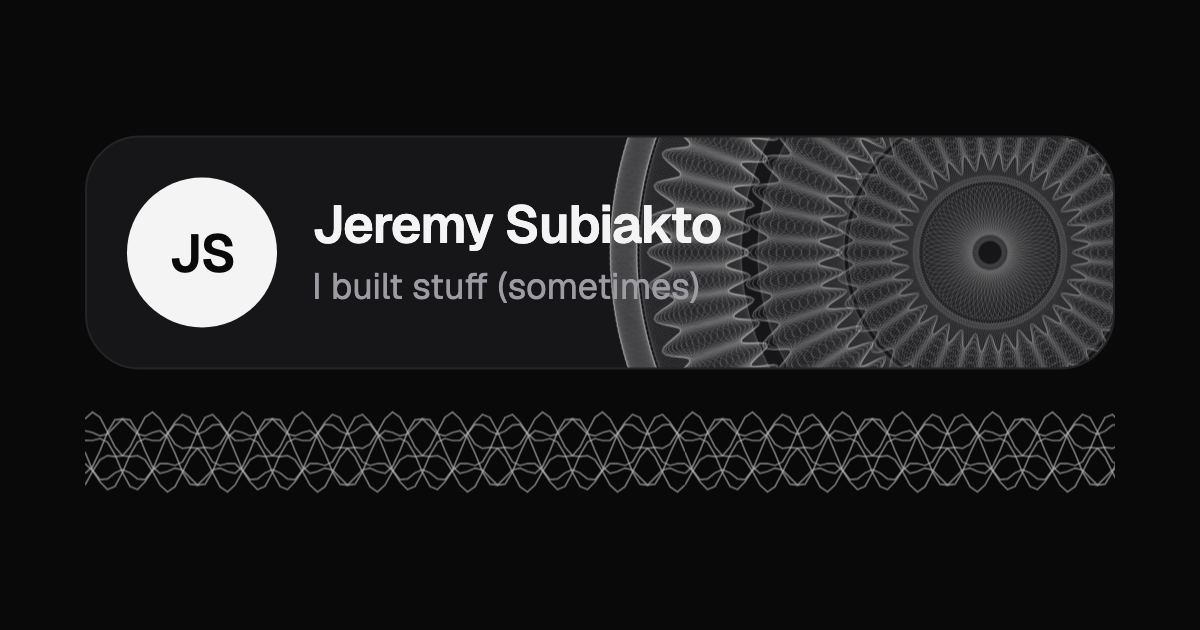
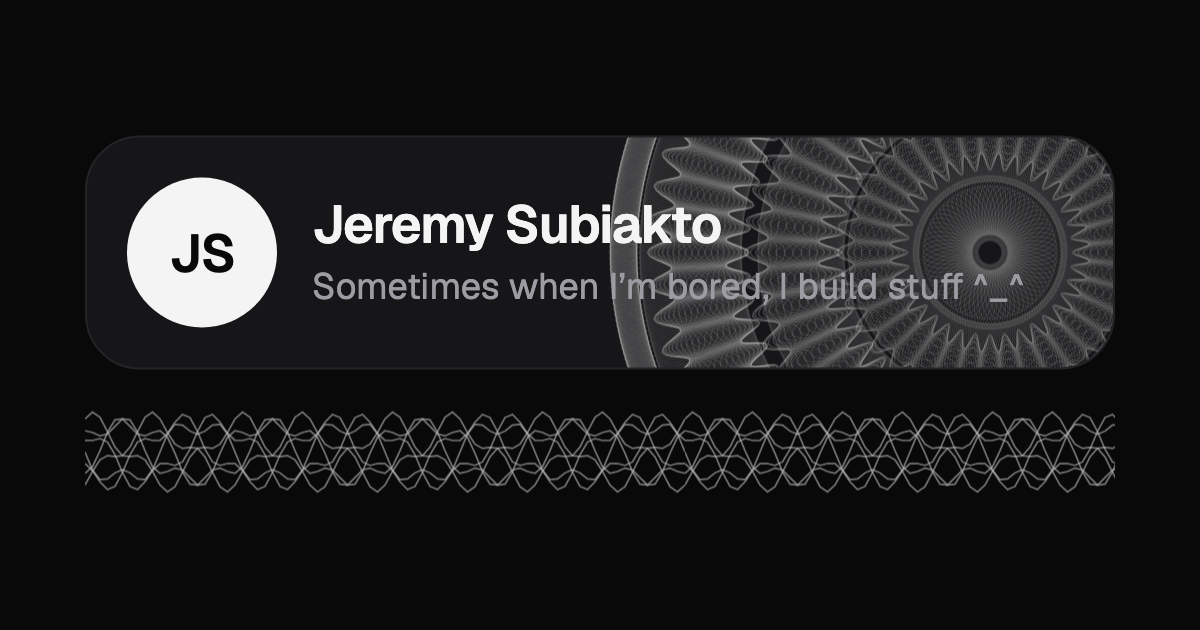
Change the line under the name
It now reads "Sometimes when I'm bored, I build stuff ^_^" on the page,
in the search and share descriptions, on the share picture and in the
hidden print.

Changed region(s): [[0.2467, 0.4222, 0.8633, 0.4825]]

diff --git a/index.html b/index.html
@@ -4,7 +4,7 @@
 <meta charset="utf-8">
 <meta name="viewport" content="width=device-width, initial-scale=1, viewport-fit=cover">
 <title>Jeremy Subiakto</title>
-<meta name="description" content="I built stuff (sometimes). Kenari Collection SQL Lab and Kenari Excel Lab, both free.">
+<meta name="description" content="Sometimes when I’m bored, I build stuff ^_^ Kenari Collection SQL Lab and Kenari Excel Lab, both free.">
 <meta name="color-scheme" content="light dark">
 <meta name="theme-color" media="(prefers-color-scheme: light)" content="#F0F0EC">
 <meta name="theme-color" media="(prefers-color-scheme: dark)" content="#09090A">
@@ -23,14 +23,14 @@
 </script>
 <link rel="canonical" href="https://jeremysubiakto.github.io/links/">
 <meta property="og:title" content="Jeremy Subiakto">
-<meta property="og:description" content="I built stuff (sometimes).">
+<meta property="og:description" content="Sometimes when I’m bored, I build stuff ^_^">
 <meta property="og:url" content="https://jeremysubiakto.github.io/links/">
 <meta property="og:type" content="website">
 <!-- Share picture: the name card in dark (his pick B, 2026-11-06). Apps fetch it from their own servers, so the address is absolute. -->
 <meta property="og:image" content="https://jeremysubiakto.github.io/links/img/share.png">
 <meta property="og:image:width" content="1200">
 <meta property="og:image:height" content="630">
-<meta property="og:image:alt" content="Name card: Jeremy Subiakto, I built stuff (sometimes)">
+<meta property="og:image:alt" content="Name card: Jeremy Subiakto. Sometimes when I’m bored, I build stuff ^_^">
 <meta name="twitter:card" content="summary_large_image">
 <link rel="preconnect" href="https://fonts.googleapis.com">
 <link rel="preconnect" href="https://fonts.gstatic.com" crossorigin>
@@ -115,7 +115,7 @@ a.tile:focus-visible{outline:3px solid var(--tx);outline-offset:3px}
       <span class="av" aria-hidden="true">JS</span>
       <div>
         <h1>Jeremy Subiakto</h1>
-        <p class="line">I built stuff (sometimes)</p>
+        <p class="line">Sometimes when I’m bored, I build stuff ^_^</p>
       </div>
     </section>
 
@@ -168,7 +168,7 @@ a.tile:focus-visible{outline:3px solid var(--tx);outline-offset:3px}
   const UV = { light: '86,32,208', dark: '168,132,255' };
   const WORDS = {
     sesuai: { inner: 'SESUAI ', middle: 'KENARI SQL LAB · KENARI EXCEL LAB · ', big: 'SESUAI' },
-    js: { inner: 'JEREMY SUBIAKTO · ', middle: 'I BUILT STUFF (SOMETIMES) · ', big: 'JS' }
+    js: { inner: 'JEREMY SUBIAKTO · ', middle: 'SOMETIMES WHEN I’M BORED, I BUILD STUFF ^_^ · ', big: 'JS' }
   };
   const isDark = () => matchMedia('(prefers-color-scheme: dark)').matches;
   const calm = () => matchMedia('(prefers-reduced-motion: reduce)').matches;
